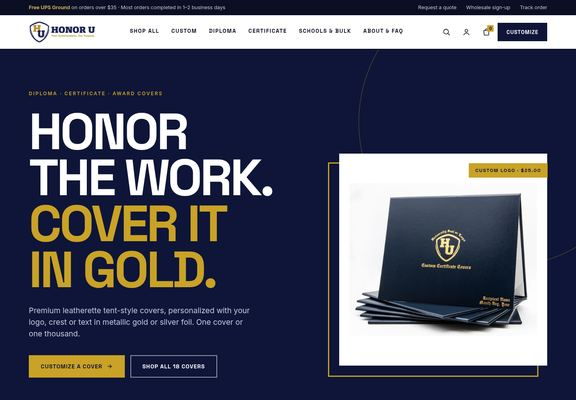
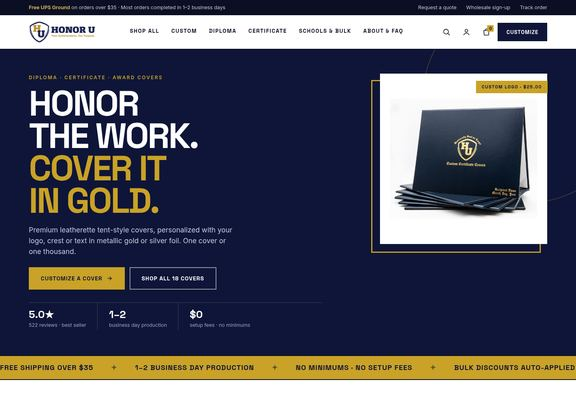
Design B: tone down oversized home hero type and lift product frame

diff --git a/design-b/index.html b/design-b/index.html
@@ -77,20 +77,20 @@ html.shot .hdr{position:relative}
 }
 
 .hero{background:var(--navy);color:#fff;position:relative;overflow:hidden}
-.hero::before{content:"";position:absolute;right:-180px;top:-180px;width:720px;height:720px;border:2px solid rgba(201,162,39,.25);border-radius:50%}
-.hero .wrap{display:grid;grid-template-columns:1.25fr 1fr;gap:64px;align-items:center;padding-top:96px;padding-bottom:110px;position:relative}
-.hero h1{font-size:128px;line-height:.9;letter-spacing:-.045em;margin:26px 0 30px;text-transform:uppercase}
+.hero::before{content:"";position:absolute;right:-140px;top:-140px;width:520px;height:520px;border:2px solid rgba(201,162,39,.25);border-radius:50%}
+.hero .wrap{display:grid;grid-template-columns:1.35fr .95fr;gap:48px;align-items:start;padding-top:56px;padding-bottom:64px;position:relative}
+.hero h1{font-size:88px;line-height:.92;letter-spacing:-.04em;margin:14px 0 18px;text-transform:uppercase}
 .hero h1 span{color:var(--gold)}
-.hero p{font-size:19px;color:#C6CAE0;max-width:560px;margin:0 0 38px}
-.hero .ctas{display:flex;gap:14px;flex-wrap:wrap}
-.hero .stats{display:grid;grid-template-columns:repeat(3,auto);justify-content:start;gap:0;margin-top:56px;border-top:1px solid rgba(255,255,255,.18)}
-.hero .stats div{padding:22px 40px 0 0;margin-right:40px;border-right:1px solid rgba(255,255,255,.18)}.hero .stats div:last-child{border:0}
-.hero .stats b{display:block;font:700 34px/1 var(--disp);color:#fff}.hero .stats span{font-size:13px;color:#9EA3C4}
-.frame{position:relative;padding:0 0 28px 28px}
-.frame::before{content:"";position:absolute;left:0;bottom:0;width:calc(100% - 28px);height:calc(100% - 28px);border:3px solid var(--gold)}
+.hero p{font-size:17.5px;color:#C6CAE0;max-width:520px;margin:0 0 26px}
+.hero .ctas{display:flex;gap:12px;flex-wrap:wrap}
+.hero .stats{display:grid;grid-template-columns:repeat(3,auto);justify-content:start;gap:0;margin-top:32px;border-top:1px solid rgba(255,255,255,.18)}
+.hero .stats div{padding:16px 28px 0 0;margin-right:28px;border-right:1px solid rgba(255,255,255,.18)}.hero .stats div:last-child{border:0}
+.hero .stats b{display:block;font:700 26px/1 var(--disp);color:#fff}.hero .stats span{font-size:12.5px;color:#9EA3C4}
+.frame{position:relative;padding:0 0 22px 22px;max-width:440px;width:100%;justify-self:end;margin-top:4px}
+.frame::before{content:"";position:absolute;left:0;bottom:0;width:calc(100% - 22px);height:calc(100% - 22px);border:3px solid var(--gold)}
 .frame .ph-in{position:relative;background:#fff;aspect-ratio:1/1.02;display:grid;place-items:center}
-.frame img{width:90%;mix-blend-mode:multiply}
-.frame .lab{position:absolute;right:-1px;top:24px;background:var(--gold);color:var(--navy);font:700 12px/1 var(--disp);letter-spacing:.14em;text-transform:uppercase;padding:12px 16px}
+.frame img{width:88%;mix-blend-mode:multiply}
+.frame .lab{position:absolute;right:-1px;top:18px;background:var(--gold);color:var(--navy);font:700 11px/1 var(--disp);letter-spacing:.14em;text-transform:uppercase;padding:10px 14px}
 .marq{background:var(--gold);color:var(--navy);overflow:hidden;border-top:2px solid var(--ink);border-bottom:2px solid var(--ink)}
 .marq div{display:flex;gap:44px;white-space:nowrap;padding:20px 0;font:700 18px/1 var(--disp);letter-spacing:.06em;text-transform:uppercase;width:max-content}
 .marq i{font-style:normal;opacity:.55}
@@ -124,12 +124,12 @@ html.shot .hdr{position:relative}
 .mtf{display:grid;grid-template-columns:auto 1fr auto;gap:40px;align-items:center;border:2px solid var(--ink);padding:30px 40px;background:#fff}
 .mtf img{width:150px;height:110px;object-fit:contain;mix-blend-mode:multiply}.mtf h3{font-size:30px;margin:8px 0}.mtf p{margin:0;color:var(--mut)}
 @media (max-width:820px){
- .hero::before{width:360px;height:360px;right:-160px;top:-120px}
- .hero .wrap{grid-template-columns:minmax(0,1fr);gap:44px;padding-top:48px;padding-bottom:60px}
- .hero h1{font-size:58px;margin:18px 0 18px}.hero p{font-size:16px;margin-bottom:26px}
+ .hero::before{width:280px;height:280px;right:-120px;top:-100px}
+ .hero .wrap{grid-template-columns:minmax(0,1fr);gap:28px;padding-top:36px;padding-bottom:44px}
+ .hero h1{font-size:44px;margin:12px 0 14px}.hero p{font-size:15.5px;margin-bottom:20px}
  .hero .ctas .btn{flex:1 1 100%}
- .hero .stats{grid-template-columns:repeat(3,1fr);margin-top:34px}.hero .stats div{padding:16px 10px 0 0;margin-right:10px}.hero .stats b{font-size:24px}.hero .stats span{font-size:11.5px;display:block}
- .frame{padding:0 0 16px 16px}.frame::before{width:calc(100% - 16px);height:calc(100% - 16px)}
+ .hero .stats{grid-template-columns:repeat(3,1fr);margin-top:24px}.hero .stats div{padding:12px 8px 0 0;margin-right:8px}.hero .stats b{font-size:20px}.hero .stats span{font-size:11px;display:block}
+ .frame{padding:0 0 14px 14px;max-width:none;justify-self:stretch;margin-top:0}.frame::before{width:calc(100% - 14px);height:calc(100% - 14px)}.frame .lab{top:12px;padding:8px 12px;font-size:10px}
  .marq div{font-size:14px;padding:15px 0;gap:26px}
  .idx a{grid-template-columns:44px minmax(0,1fr) 88px;gap:6px 14px;padding:18px 0}
  .idx h3{font-size:24px}.idx p{grid-column:2/4;font-size:13.5px;grid-row:2}.idx .pr{grid-column:2;grid-row:3;text-align:left;font-size:15px}.idx .pr small{display:inline;margin-left:6px}
